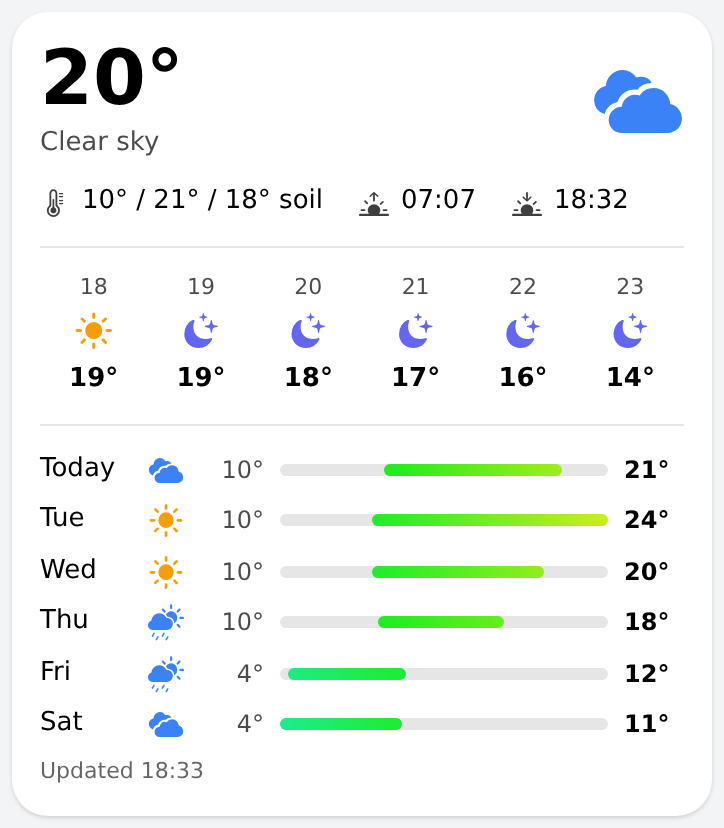
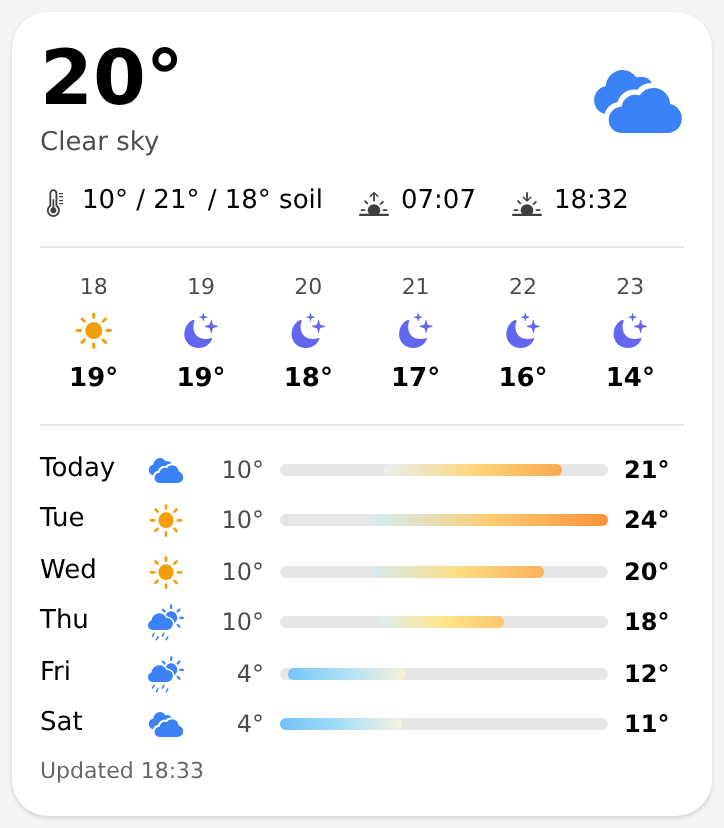
fix(weather_card): temperature scale blue → yellow → orange → red without green

Changed region(s): [[0.395, 0.6643, 0.7597, 0.9058], [0.5166, 0.6039, 0.8508, 0.6341], [0.5166, 0.5435, 0.7901, 0.5737]]

diff --git a/widgets/weather_card/README.md b/widgets/weather_card/README.md
@@ -28,7 +28,7 @@ Item convention: `<forecastPrefix>Hours01..06_Timestamp/_Iconid/_Temperature` an
 
 - Soil temperature after min/max (`soilItem`, "10° / 21° / 18° soil")
 - "Updated" time moved to a left-aligned footer line
-- Daily range bars are coloured by absolute temperature (blue below zero → green → yellow → red above 35 °C) instead of the same gradient for every day
+- Daily range bars are coloured by absolute temperature (blue below zero → light blue → pale yellow → orange → red above 30 °C; no green) instead of the same gradient for every day
 
 ### Version 1.0.0
 
